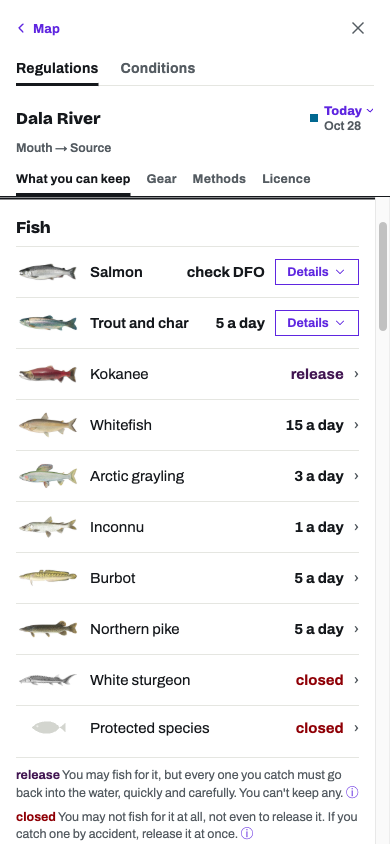
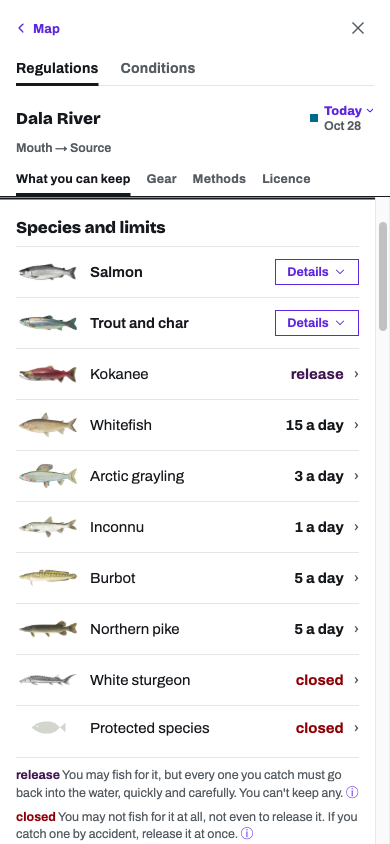
T221 follow-up (owner): at-a-glance kept — folded rows say no count, Salmon a status word only when every row agrees; heading "Species and limits"

Changed region(s): [[0.0308, 0.2464, 0.4308, 0.2773], [0.4923, 0.3081, 0.6769, 0.3389], [0.5538, 0.3697, 0.6769, 0.4005]]

diff --git a/app/packages/core/src/glance.ts b/app/packages/core/src/glance.ts
@@ -1,17 +1,16 @@
 /**
  * (T221, owner 2026-10-28 — a TRY) THE AT-A-GLANCE TABLE: the Keep tab's species list ("Other fish": picture, name, the
  * day's answer on the right) also carries the quota groups (Trout and char) and the DFO Salmon card as FOLDED rows —
- * "5 a day", "check DFO" — each opening, in place, to its full card. This file words those two kinds of row; the
- * component draws them beside the Other fish rows it already has. No new answer: each value is read off the card's own.
+ * each opening, in place, to its full card. This file words those two kinds of row; the component draws them beside the
+ * Other fish rows it already has. (Owner 2026-10-28) a folded row says NO count — "5 a day" misread as the whole group's
+ * answer — and a status word only where it is true for every row of the card ("closed", "check DFO"); else none.
  */
 import type { GroupVM, TreeNodeVM } from "./regs/model";
-import { WORDS } from "./regs/words";
-import { plain } from "./regs/line";
 import { SALMON_WORDS, type SalmonCardVM } from "./salmon";
 
 export const GLANCE_WORDS = {
   /** the table's head once it holds more than the other fish */
-  head: "Fish",
+  head: "Species and limits",
   /** the fold's affordance, closed and open */
   show: "Details",
   hide: "Hide",
@@ -19,11 +18,11 @@ export const GLANCE_WORDS = {
   a11y: (name: string, open: boolean) => `${name}: ${open ? "hide" : "show"} the details`,
 } as const;
 
-/** One folded row: the picture's code, the name, the day's answer and its tone (the Other fish rows' tones). */
+/** One folded row: the picture's code, the name, the status word true for the whole card (null: none) and its tone. */
 export interface GlanceRowVM {
   readonly thumb: string | null;
   readonly name: string;
-  readonly value: string;
+  readonly value: string | null;
   readonly tone: "keep" | "release" | "closed" | "nolimit";
 }
 
@@ -40,21 +39,19 @@ function thumbOf(nodes: readonly TreeNodeVM[]): string | null {
   return codes.includes("RB") ? "RB" : codes[0] ?? null;
 }
 
-/**
- * A quota group's folded row: its title, and the number the card heads with — the water's share where the head leads
- * with one (form a), else the root tier's — as "5 a day"; "no limit" for a group without one.
- */
+/** A quota group's folded row: its title and picture, no count (owner 2026-10-28: a group's number misleads). */
 export function groupGlance(g: GroupVM): GlanceRowVM {
-  const thumb = thumbOf(g.tree ?? []);
-  if (g.head.nolimit) return { thumb, name: g.title, value: WORDS.NO_LIMIT, tone: "nolimit" };
-  const big = (g.head.form === "a" && g.head.lead ? g.head.lead : g.head.words).find((r) => r.t === "num" && r.size === "big");
-  const n = big && big.t === "num" ? big.s : null;
-  return { thumb, name: g.title, value: n !== null ? `${n}${WORDS.A_DAY}` : plain(g.head.words), tone: "keep" };
+  return { thumb: thumbOf(g.tree ?? []), name: g.title, value: null, tone: "keep" };
 }
 
-/** The Salmon card's folded row: its title and its status word for the day ("check DFO", "closed" …). */
+/**
+ * The Salmon card's folded row: its title, and its status word ("closed", "check DFO" …) only when every row of the
+ * card — the water's and any undrawn DFO place's — has that status; else none.
+ */
 export function salmonGlance(card: SalmonCardVM): GlanceRowVM {
-  const s = card.headlineStatus;
+  const all = [...card.rows, ...card.unmapped.flatMap((u) => u.block.rows)].map((r) => r.status);
+  const s = all.length && all.every((x) => x === all[0]) ? all[0]! : null;
+  if (s === null || s === "varies") return { thumb: "CO", name: card.title, value: null, tone: "keep" };
   const word = SALMON_WORDS.status[s];
   return { thumb: "CO", name: card.title, value: s === "check" ? word.replace(/^Check/, "check") : word.toLowerCase(),
            tone: s === "closed" ? "closed" : s === "release" ? "release" : "keep" };

diff --git a/app/packages/ui-native/src/regs/KeepBlocks.tsx b/app/packages/ui-native/src/regs/KeepBlocks.tsx
@@ -188,8 +188,8 @@ function Thumb({ code, images, palette }: { code: string | null; images: FishIma
 export interface GlanceFold { readonly key: string; readonly row: GlanceRowVM; readonly body: () => ReactNode }
 
 /**
- * (T221, owner 2026-10-28 — a try) A FOLDED ROW: drawn as an Other fish row — picture, name, the day's answer on the
- * right — but its end is a "Details" button with the set's expand mark (not the sheet's ›), and a press opens its full
+ * (T221, owner 2026-10-28) A FOLDED ROW: drawn as an Other fish row — picture, name, a status word only where the whole
+ * card has it (no count) — but its end is a "Details" button with the set's expand mark (not the sheet's ›), and a press opens its full
  * card in place under it (pressed again, "Hide", folds it).
  */
 function FoldRow({ f, palette, images }: { f: GlanceFold; palette: Palette; images?: FishImages }) {
@@ -204,7 +204,7 @@ function FoldRow({ f, palette, images }: { f: GlanceFold; palette: Palette; imag
                             borderTopColor: palette.line }}>
           <Thumb code={f.row.thumb} images={images} palette={palette} />
           <Text style={[TYPE.regsBodySemi, { color: palette.ink, flex: 1 }]}>{f.row.name}</Text>
-          <Text testID={`st:${f.row.tone}`} style={[TYPE.regsBodyBold, { color: tone }]}>{f.row.value}</Text>
+          {f.row.value && <Text testID={`st:${f.row.tone}`} style={[TYPE.regsBodyBold, { color: tone }]}>{f.row.value}</Text>}
           <View testID="glance-toggle" style={{ flexDirection: "row", alignItems: "center", justifyContent: "center", minWidth: 84, gap: 4, paddingVertical: 4, paddingHorizontal: 8,
                                                  borderWidth: 1, borderColor: palette.accent, borderRadius: palette.r.chip }}>
             <Text style={[TYPE.metaBold, { color: palette.accent }]}>{open ? GLANCE_WORDS.hide : GLANCE_WORDS.show}</Text>
@@ -219,7 +219,7 @@ function FoldRow({ f, palette, images }: { f: GlanceFold; palette: Palette; imag
 
 export function OtherFish({ rows, keys, palette, actions, images, folds = [] }: {
   rows: readonly OtherFishRowVM[]; keys: readonly OtherFishKeyVM[]; palette: Palette; actions: KeepActions; images?: FishImages;
-  /** (T221) the at-a-glance table's folded rows (Salmon, the quota groups), drawn first; then the table heads "Fish" */
+  /** (T221) the at-a-glance table's folded rows (Salmon, the quota groups), drawn first; then the table heads "Species and limits" */
   folds?: readonly GlanceFold[];
 }) {
   const tone = (t: OtherFishRowVM["tone"]) => (t === "release" ? palette.restricted : t === "closed" ? palette.closed : palette.ink);

diff --git a/app/packages/core/src/glance.test.ts b/app/packages/core/src/glance.test.ts
@@ -11,16 +11,17 @@ const group = (over: Partial<GroupVM["head"]>, tree: GroupVM["tree"] = []): Grou
 });
 const pic = (code: string) => ({ code, name: code, caption: code, open: `sp:${code}` as never, sil: false as const });
 
-describe("(T221) the at-a-glance rows", () => {
-  it("a group: the head's number as 'N a day' (form a: the water's share), a rainbow's picture where it has one", () => {
+describe("(T221) the at-a-glance rows say no count", () => {
+  it("a group: its title and a rainbow's picture where it has one — never a number", () => {
     const kinds = [{ t: "kind", pictures: [pic("EB")] }, { t: "kind", pictures: [pic("RB")] }] as unknown as GroupVM["tree"];
-    expect(groupGlance(group({}, kinds))).toEqual({ thumb: "RB", name: "Trout and char", value: "5 a day", tone: "keep" });
-    expect(groupGlance(group({ form: "a", lead: [{ t: "num", s: "2", size: "big" }] })).value).toBe("2 a day");
-    expect(groupGlance(group({ nolimit: true })).value).toBe("no limit");
+    expect(groupGlance(group({}, kinds))).toEqual({ thumb: "RB", name: "Trout and char", value: null, tone: "keep" });
   });
-  it("salmon: the card's status word, toned as the Other fish rows", () => {
-    const card = (s: SalmonCardVM["headlineStatus"]) => ({ title: SALMON_WORDS.title, headlineStatus: s }) as SalmonCardVM;
-    expect([salmonGlance(card("check")), salmonGlance(card("closed")).tone, salmonGlance(card("release")).value]).toEqual([
-      { thumb: "CO", name: SALMON_WORDS.title, value: "check DFO", tone: "keep" }, "closed", "release only"]);
+  it("salmon: a status word only when every row (undrawn places too) has it", () => {
+    const row = (status: string) => ({ status }) as never;
+    const card = (st: string[], un: string[] = []) => ({ title: SALMON_WORDS.title, rows: st.map(row),
+      unmapped: un.length ? [{ block: { rows: un.map(row) } }] : [] }) as unknown as SalmonCardVM;
+    expect([salmonGlance(card(["check", "check"])).value, salmonGlance(card(["closed"])).tone,
+            salmonGlance(card(["check"], ["closed"])).value, salmonGlance(card(["open", "closed"])).value])
+      .toEqual(["check DFO", "closed", null, null]);
   });
 });

diff --git a/handoff/PLAN/app-integration/hard-regs-spot-check.md b/handoff/PLAN/app-integration/hard-regs-spot-check.md
@@ -8,8 +8,8 @@ search for it. Each entry gives what to look for and how it should read. Add a c
 |---|---|---|---|
 | 1 | **Dala River** (`?regs=gnis:4688`, Region 6) | Trout and char: Region 6's shared "1 over 50 cm" cap, and the stream's "1 brown trout, cutthroat trout, rainbow trout or steelhead in all" count | The count line sits **above** the size box (T221: it counts a rainbow trout, and the box does not hold the rainbow). The box ("Of your 5 trout and char, only 1 may be over 50 cm (20 in)") holds brook, lake, brown/cutthroat and steelhead. Rainbow trout comes **after** the box with "No more than 1 counting any steelhead, cutthroat trout or brown trout you keep". The "must be 30 cm (12 in) or longer" lines are plain text, with no coloured rail. |
 | 1b | Dala River: Salmon | DFO lists "Dala River — including tributaries", but that place is not drawn on the map | **One** salmon table. The partial-coverage line leads it, then the Chinook / Coho / Sockeye · pink · chum rows ("Check DFO"), then the "Salmon — closed" row, which names "Dala River — including tributaries · Location not yet mapped". There is no second box. |
-| 1c | Dala River: the water screen | A water with one part and no continuation | Search opens **Regulations**, not the map. The views are Regulations and Conditions only (no Map tab). |
+| 1c | Dala River: the water screen | A water with one part and no continuation | Search opens **Regulations**, not the map. The views are Regulations and Conditions only (no Map tab). In "Species and limits", the Salmon row (check DFO and closed rows mixed) and the Trout and char row show only "Details ⌄". A status word appears only when every salmon row agrees. |
 | 2 | **Vedder River** (`?regs=gnis:3062`) ↔ Chilliwack | A river that changes its name (`water_continue`) | Search opens the **Map**, with the whole water framed. ▲ / ▼ crosses into the Chilliwack and replaces the frame. One back returns to the map. The Map view stays, even on a part at the end of the chain. |
-| 3 | **Kildala River** (`?regs=gnis:8573`) | A water with one part and salmon open for release only | Search opens Regulations with no Map tab. The at-a-glance table shows Salmon as "release only" and Trout and char as "5 a day". |
+| 3 | **Kildala River** (`?regs=gnis:8573`) | A water with one part whose salmon rows differ | Search opens Regulations with no Map tab. In "Species and limits", the Salmon and Trout and char rows show only "Details ⌄": no count, and no status word because the salmon rows are mixed. |
 | 4 | Kitimat states (`x14p0/1/2`, conformance `KITIMAT_RULED_IDS`) | Owner ruling 2026-10-21 (a) differs from page v36 | The tree follows the store's tree, not the old prototype. |
 | 5 | Lois Lake (T206 `LOIS_FOLD`) | The hatchery rainbow rule is retired and folded into the steelhead row | Hatchery rainbow trout answer to r4. The group is r1, and Kokanee is the next row. |
